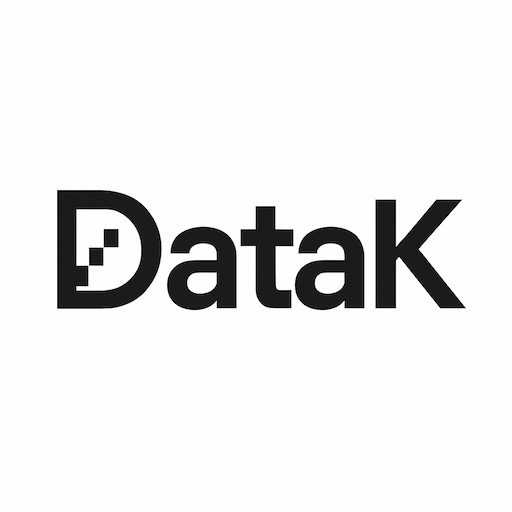
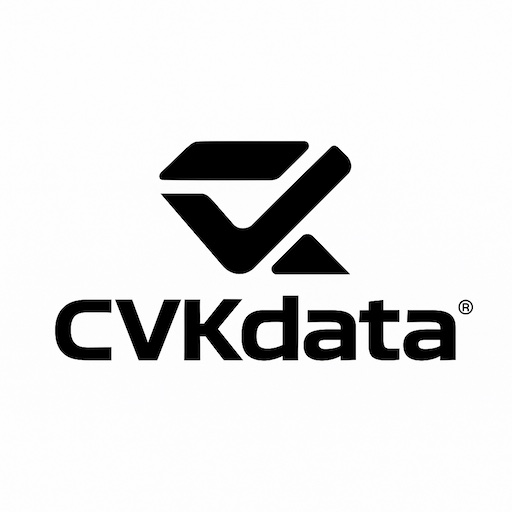
配置

Changed region(s): [[0.0938, 0.25, 0.9375, 0.7188]]

diff --git a/resources/views/admin/dashboard/title.blade.php b/resources/views/admin/dashboard/title.blade.php
@@ -30,13 +30,13 @@
             <img class="avatar img-circle shadow mt-1" src="/vendor/dujiaoka-admin/images/logo.jpg">
 
             <div class="text-center mb-1">
-                <h1 class="mb-3 mt-2 text-white">{{ config('dujiaoka.dujiaoka_name', 'DataK') }} V{{ config('dujiaoka.dujiaoka_version', '2.0.0') }}</h1>
+                <h1 class="mb-3 mt-2 text-white">{{ config('dujiaoka.dujiaoka_name', 'CVKData') }} V{{ config('dujiaoka.dujiaoka_version', '2.0.0') }}</h1>
                 <div class="links">
 <!--                    <a href="https://github.com/assimon/dujiaoka" target="_blank">Github</a>-->
 <!--                    <a href="//shang.qq.com/wpa/qunwpa?idkey=37b6b06f7c941dae20dcd5784088905d6461064d7f33478692f0c4215546cee0" id="qq-group-link" target="_blank">-->
 <!--                        <img border="0" src="//pub.idqqimg.com/wpa/images/group.png" alt="" title="{{ __('dujiaoka.join_qq_group') }}">-->
 <!--                    </a>-->
-                    <a href="http://t.me/{{ config('dujiaoka.telegram_group_name', 'Fakeman1024') }}" id="telegram-group-link" target="_blank">{{ __('dujiaoka.join_telegram_group') }}</a>
+                    <a href="http://t.me/{{ config('dujiaoka.telegram_group_name', 'cvkdata') }}" id="telegram-group-link" target="_blank">{{ __('dujiaoka.join_telegram_group') }}</a>
 <!--                    <a href="https://dujiaoka.com" id="demo-link" target="_blank">{{ __('dujiaoka.official_website') }}</a>-->
                 </div>
             </div>

diff --git a/app/Service/OrderProcessService.php b/app/Service/OrderProcessService.php
@@ -459,8 +459,8 @@ class OrderProcessService
         $mailData = [
             'created_at' => $order->create_at,
             'product_name' => $order->goods->gd_name,
-            'webname' => dujiaoka_config_get('text_logo', config('dujiaoka.text_logo', 'DataK')),
-            'weburl' => config('app.url') ?? 'https://datak.shop',
+            'webname' => dujiaoka_config_get('text_logo', config('dujiaoka.text_logo', 'CVKData')),
+            'weburl' => config('app.url') ?? 'https://kfk.spiker-aka.shop',
             'ord_info' => str_replace(PHP_EOL, '<br/>', $order->info),
             'ord_title' => $order->title,
             'order_id' => $order->order_sn,
@@ -508,8 +508,8 @@ class OrderProcessService
         $mailData = [
             'created_at' => $order->create_at,
             'product_name' => $order->goods->gd_name,
-            'webname' => dujiaoka_config_get('text_logo', config('dujiaoka.text_logo', 'DataK')),
-            'weburl' => config('app.url') ?? 'https://datak.shop',
+            'webname' => dujiaoka_config_get('text_logo', config('dujiaoka.text_logo', 'CVKData')),
+            'weburl' => config('app.url') ?? 'https://kfk.spiker-aka.shop',
             'ord_info' => implode('<br/>', $carmisInfo),
             'ord_title' => $order->title,
             'order_id' => $order->order_sn,

diff --git a/resources/views/common/install.blade.php b/resources/views/common/install.blade.php
@@ -685,7 +685,7 @@ TkSuQmCC" />
         </svg>
 
     </h1>
-    <h2>DataK 「{{ config('dujiaoka.dujiaoka_version') }}」</h2>
+    <h2>CVKData 「{{ config('dujiaoka.dujiaoka_version') }}」</h2>
     <div>
 
         <p>每个梦想的路上，一起前行....！
@@ -750,12 +750,12 @@ TkSuQmCC" />
             <div class="form-group">
                 <div class="form-field">
                     <label>网站名称</label>
-                    <input type="title" value="DataK" name="title" required="">
+                    <input type="title" value="CVKData" name="title" required="">
                 </div>
 
                 <div class="form-field">
                     <label>网站url</label>
-                    <input name="app_url" value="" required="" placeholder="例如：https://datak.shop" />
+                    <input name="app_url" value="" required="" placeholder="例如：https://kfk.spiker-aka.shop" />
                 </div>
 
 

diff --git a/config/admin.php b/config/admin.php
@@ -11,7 +11,7 @@ return [
     | login page.
     |
     */
-    'name' => 'DataK',
+    'name' => 'CVKData',
 
     /*
     |--------------------------------------------------------------------------
@@ -22,7 +22,7 @@ return [
     | `img` tag, eg '<img src="http://logo-url" alt="Admin logo">'.
     |
     */
-    'logo' => '<img src="/vendor/dujiaoka-admin/images/logo.jpg" width="35"> &nbsp;DataK',
+    'logo' => '<img src="/vendor/dujiaoka-admin/images/logo.jpg" width="35"> &nbsp;CVKData',
 
     /*
     |--------------------------------------------------------------------------
@@ -88,7 +88,7 @@ return [
     | Html title for all pages.
     |
     */
-    'title' => 'DataK - 后台控制中心',
+    'title' => 'CVKData - 后台控制中心',
 
     /*
     |--------------------------------------------------------------------------

diff --git a/app/Jobs/BarkPush.php b/app/Jobs/BarkPush.php
@@ -76,7 +76,7 @@ class BarkPush implements ShouldQueue
 				. __('order.fields.order_created') .': '.$this->order->created_at,
 			"icon"=>url('assets/common/images/default.jpg'),
 			"level"=>"timeSensitive",
-			"group"=>dujiaoka_config_get('text_logo', config('dujiaoka.text_logo', 'DataK'))
+			"group"=>dujiaoka_config_get('text_logo', config('dujiaoka.text_logo', 'CVKData'))
 		];
 		if (dujiaoka_config_get('is_open_bark_push_url', 0) == BaseModel::STATUS_OPEN) {
 			$params["url"] = url('detail-order-sn/'.$this->order->order_sn);

diff --git a/app/Listeners/OrderUpdated.php b/app/Listeners/OrderUpdated.php
@@ -34,7 +34,7 @@ class OrderUpdated
         $order = [
             'created_at' => date('Y-m-d H:i'),
             'ord_title' => $event->order->title,
-            'webname' => $sysCache['text_logo'] ?? config('dujiaoka.text_logo', 'DataK'),
+            'webname' => $sysCache['text_logo'] ?? config('dujiaoka.text_logo', 'CVKData'),
             'weburl' => config('app.url'),
             'order_id' => $event->order->order_sn,
             'ord_price' => $event->order->actual_price,

diff --git a/config/dujiaoka.php b/config/dujiaoka.php
@@ -8,10 +8,10 @@
  */
 
 return [
-    'dujiaoka_name' => 'DataK',
+    'dujiaoka_name' => 'CVKData',
     'dujiaoka_version' => '2.0.6',
-    'telegram_group_name' => 'Fakeman1024',
-    'text_logo' => 'DataK',
+    'telegram_group_name' => 'cvkdata',
+    'text_logo' => 'CVKData',
     // 模板集合
     'templates' => [
         'unicorn' => '官方[unicorn]',
